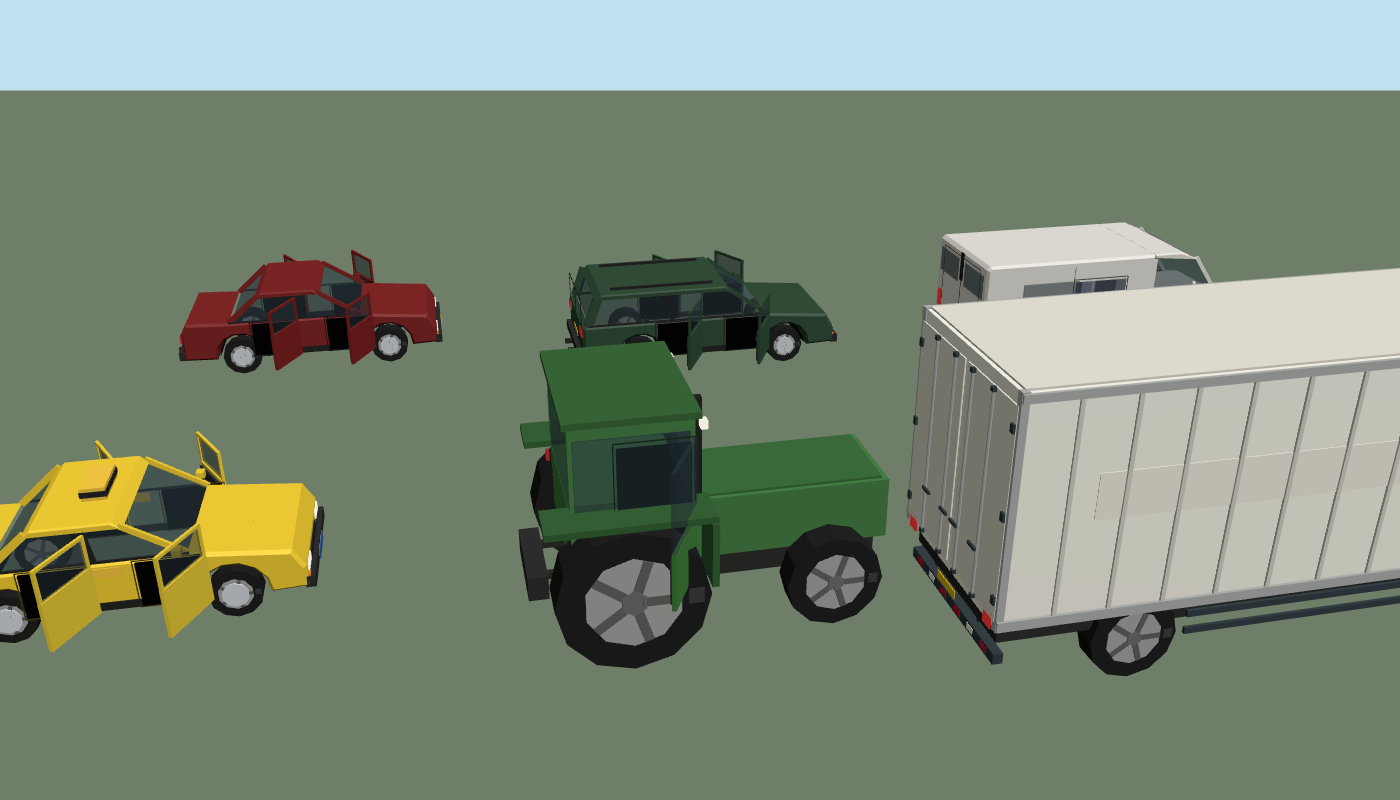
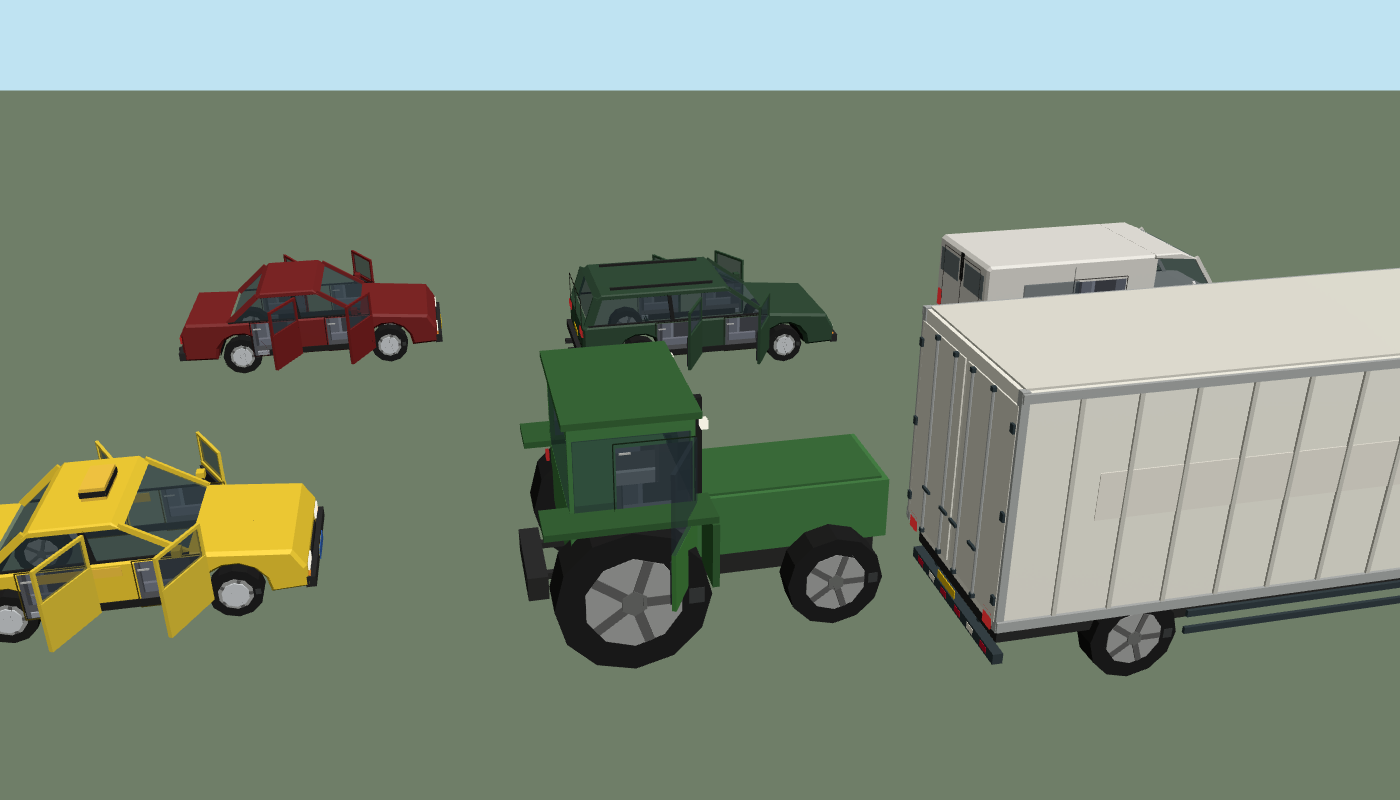
Deuren: brede opname opnieuw, openingen ook op afstand donkergrijs interieur
De zwarte rechthoeken kwamen uit een opname van vóór de interieur-stencil; de deurcode heeft geen eigen LOD, dus dichtbij en ver weg gebruiken hetzelfde interieurvlak.

diff --git a/docs/AAA-OBJECTEN-23-11.md b/docs/AAA-OBJECTEN-23-11.md
@@ -92,6 +92,10 @@ geval circa 150.000 driehoeken, alleen binnen 90 tot 140 m en alleen als ze alle
   vier sluitstangen met hendels en nokken, onderrijbeveiliging achter (met reflectiestroken) en opzij.
 - **Register:** `VOERTUIG_REGISTER` in `propregister.js` legt de norm voor de trekker-limo en de bakwagen vast (driehoeken, kleuren,
   eisen); `propregister_test.mjs` bouwt ze en houdt ze eraan. Gemeten: trekker-limo 5.970 driehoeken en 27 kleuren, bakwagen 1.936 en 17.
+- Openingen op afstand: de deurcode heeft geen eigen LOD; één rig en één opening per deur, dichtbij en ver weg. Het zwarte
+  vlak in de eerdere `na-deur-zij-open.png` kwam uit een opname van vóór de wijziging van de stencil-opening (die toen nog één
+  zwarte kleur tekende). Opnieuw gemaakt: ook in de brede opname tonen de rode, groene en gele auto donkergrijs interieur. Het LOD
+  van cabin3d.js bepaalt alleen of de echte cabine er dichtbij overheen tekent; daarbuiten blijft het interieurvlak staan.
 - Nieuwe beelden: `na-limo.png`, `na-limo-achter.png`, `na-limo-zij-open.png`, `na-deur1-zij-open.png`, `na-deur-zij-open.png`, `na-bak.png`.
 
 ## Niet in beeld gezien
